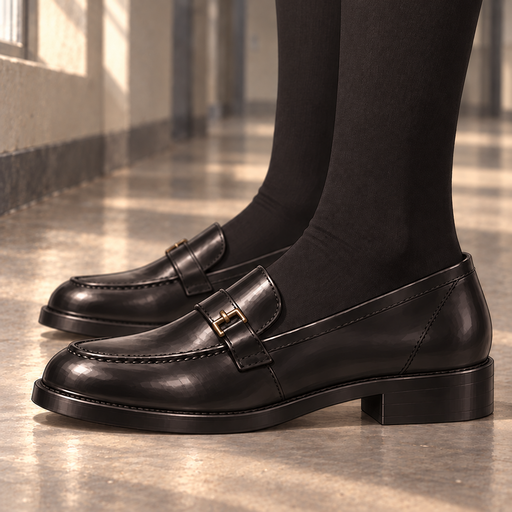
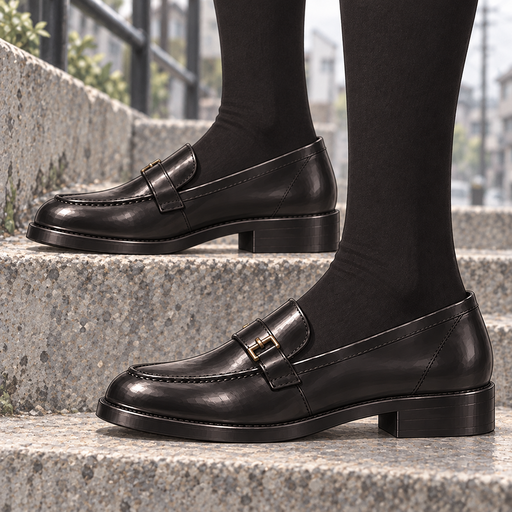
更新楼外阶梯动态样张 04-皮鞋侧面.png

diff --git a/wardrobe-samples-illustrated/制作规范.md b/wardrobe-samples-illustrated/制作规范.md
@@ -57,3 +57,10 @@
 - 鞋子正式素材每款采用侧面、正后方背面两个方向，替换原附件的四分之三侧面。背面需清楚显示后跟及后中缝，不使用斜后方代替。
 - 背景先制作一套藏青西装组合样张，单独放在“背景风格样张”目录，不计入185个正式素材文件。采用旧楼走廊、窗边自然光、稍随意的手持取景和轻微颗粒，人物与环境均保留灰调柔和厚涂。
 - 同套样张各区域沿用同一环境、光向、服装和人物比例；鞋子区域的黑色及膝袜从画面上边界继续延伸，袜口不移到脚踝。
+
+## 外景与上楼动态样张（2026-10-20）
+
+- 背景优先采用街道、楼外阶梯或开放式楼道。当前样张统一为街边混凝土阶梯、低矮水泥侧墙、深灰栏杆与阴天自然光。
+- 下装与袜子表现迈步上楼：一腿抬上高一级台阶，另一腿在低一级支撑，以腿部高低错位、膝踝弯曲和衣料褶皱表达动态，保持原人物比例和同套服装。
+- 下装背面镜头严格正对人物后方，以腰臀高度水平取景，画面中心对准臀部区域；完整后片、裙摆及画内双手保留，仍为服装区域近景。
+- 鞋子仍使用清楚的侧面和正背面，以台阶高低和落脚位置衔接同套上楼动作。动态背景样张单独存放，不扩大正式185个素材目标。
